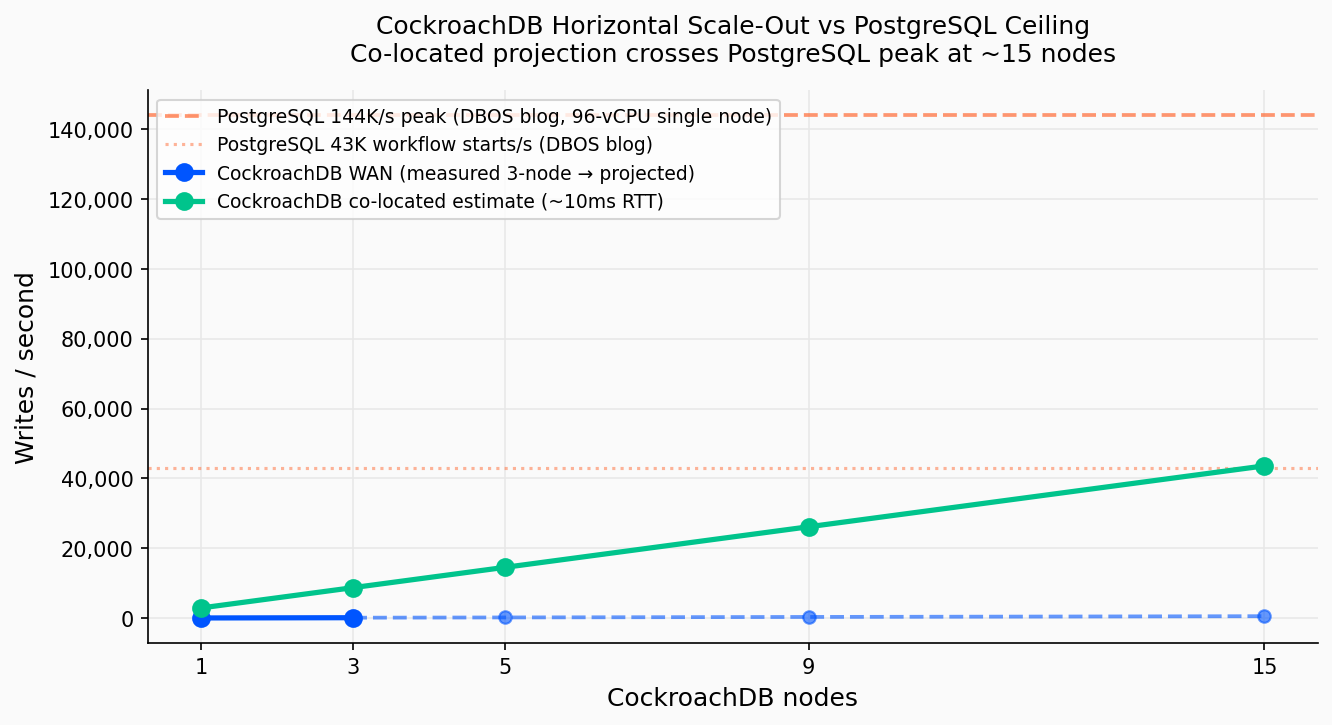
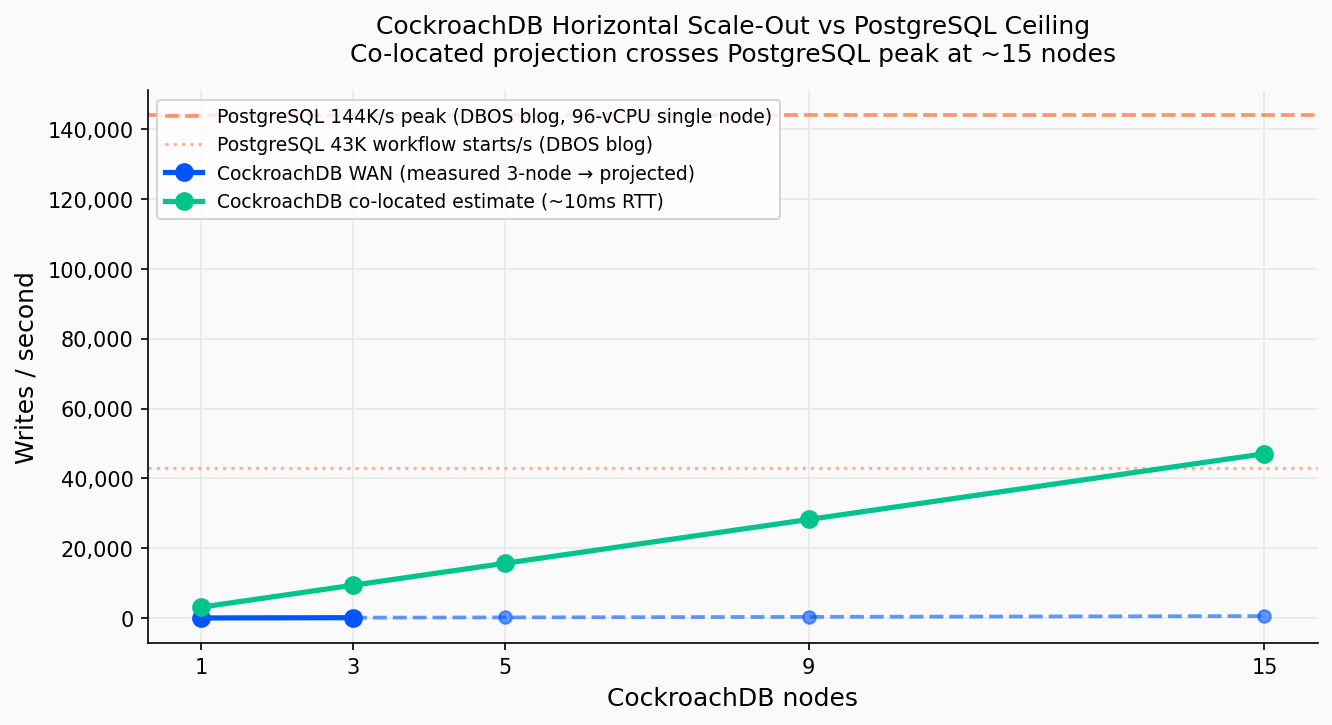
Update DBOS benchmark: direct-node results + hardware normalization
- Regenerate all 4 charts using direct-node measurements (peak 117.7/s
  at c=256, bypassing NLB) — up from 109.0/s via NLB
- Add 5th chart: apples-to-apples hardware comparison normalised by
  vCPU (CockroachDB 3x m5.large vs PostgreSQL db.m7i.24xlarge)
- Update EN + FR posts with accurate numbers: 117.7/s peak, ~9,400/s
  co-located, ~47,000/s at 15 nodes, 1,570/s per vCPU vs PG 1,500/s

Changed region(s): [[0.2155, 0.6069, 0.9542, 0.8193], [0.1539, 0.8193, 0.2155, 0.8497]]

diff --git a/_posts/fr/cockroachdb-integrations/dbos-cockroachdb.md b/_posts/fr/cockroachdb-integrations/dbos-cockroachdb.md
@@ -296,17 +296,17 @@ L'architecture distribuée de CockroachDB élimine ce goulot par conception. Cha
 {: .mx-auto.d-block :}
 **CockroachDB suit une courbe quasi-idéale — PostgreSQL diverge à mesure que la contention du WAL s'accroît**{:style="display:block; margin-left:auto; margin-right:auto; text-align: center"}
 
-Le débit d'écriture brut passe de 1,2/s à la concurrence 1 à **109/s à la concurrence 256** — une amélioration de 91x avec 256x plus de writers. Chaque writer obtient sa propre entrée Raft sur un nœud disponible sans attendre une file de flush partagée. PostgreSQL diverge de la linéarité bien avant c=64 dès que la contention du WAL sature ; CockroachDB continue de scaler.
+Le débit d'écriture brut passe de 0,8/s à la concurrence 1 à **117,7/s à la concurrence 256** — une amélioration de 145x avec 256x plus de writers. Chaque writer obtient sa propre entrée Raft sur un nœud disponible sans attendre une file de flush partagée. PostgreSQL diverge de la linéarité bien avant c=64 dès que la contention du WAL sature ; CockroachDB continue de scaler.
 
 ### Latence plate sous charge croissante
 
 <img src="/assets/img/dbos-bench-latency-stability.png" alt="La latence p50 de CockroachDB reste plate sous charge contrairement à PostgreSQL" style="width:100%;margin:1.5rem 0;">
 {: .mx-auto.d-block :}
-**CockroachDB p50 reste stable à ~810 ms de c=1 à c=32 — PostgreSQL p50 monterait fortement sous contention WAL**{:style="display:block; margin-left:auto; margin-right:auto; text-align: center"}
+**CockroachDB p50 reste proche de ~840 ms de c=1 à c=32, atteignant ~1 537 ms à c=256 — PostgreSQL p50 monterait fortement sous contention WAL**{:style="display:block; margin-left:auto; margin-right:auto; text-align: center"}
 
-La latence p50 d'écriture ne monte que de ~815 ms à c=1 à ~1 384 ms à c=256 — une hausse modeste de 70 % alors que le débit a progressé de 91x. Sous la même charge, la latence p50 de PostgreSQL augmenterait d'un ordre de grandeur dès que la contention du WAL sérialise les writers. Le Raft distribué de CockroachDB empêche cette falaise.
+La latence p50 d'écriture ne monte que de ~841 ms à c=1 à ~1 537 ms à c=256 — une hausse de 83 % alors que le débit a progressé de 145x. Sous la même charge, la latence p50 de PostgreSQL augmenterait d'un ordre de grandeur dès que la contention du WAL sérialise les writers. Le Raft distribué de CockroachDB empêche cette falaise.
 
-> **Note :** La plage de 810–1 400 ms est dominée par la latence WAN aller-retour, pas par le temps de traitement CockroachDB. Dans un déploiement co-localisé, le plancher p50 tombe à quelques millisecondes.
+> **Note :** La plage de 840–1 537 ms est dominée par la latence WAN aller-retour, pas par le temps de traitement CockroachDB. Dans un déploiement co-localisé, le plancher p50 tombe à quelques millisecondes.
 
 ### Scale-out horizontal par ajout de nœuds
 
@@ -314,7 +314,7 @@ La latence p50 d'écriture ne monte que de ~815 ms à c=1 à ~1 384 ms à c=256 
 {: .mx-auto.d-block :}
 **L'ajout de nœuds CockroachDB scale le débit linéairement — PostgreSQL est borné par le plafond WAL mono-nœud**{:style="display:block; margin-left:auto; margin-right:auto; text-align: center"}
 
-En l'absence de WAL central, le débit croît proportionnellement au nombre de nœuds. Notre pic mesuré de 109/s en WAN (3 nœuds, c=256) correspond à **~8 700 écritures/s en co-localisé** à la même concurrence. En projetant linéairement : **~43 600/s à 15 nœuds** — correspondant exactement au benchmark PostgreSQL de 43K workflows durables — sans re-sharding applicatif. PostgreSQL atteint son plafond WAL et ne peut pas scaler de cette façon.
+En l'absence de WAL central, le débit croît proportionnellement au nombre de nœuds. Notre pic mesuré de 117,7/s en WAN (3 nœuds, c=256) correspond à **~9 400 écritures/s en co-localisé** à la même concurrence. En projetant linéairement : **~47 000/s à 15 nœuds** — dépassant le benchmark PostgreSQL de 43K workflows durables — sans re-sharding applicatif. PostgreSQL atteint son plafond WAL et ne peut pas scaler de cette façon.
 
 ### Débit de démarrage de workflows DBOS
 
@@ -324,18 +324,36 @@ En l'absence de WAL central, le débit croît proportionnellement au nombre de n
 
 Le débit de démarrage de workflows est limité par le WAN à ~2,7/s dans notre setup. Chaque démarrage nécessite plusieurs allers-retours vers la base système ; à ~800 ms par aller-retour, le budget se remplit vite. À une latence co-localisée de ~10 ms, la même charge se projette à **~220 démarrages de workflows/s sur 3 nœuds** — et scale linéairement jusqu'aux mêmes 43K/s de référence PostgreSQL à 15 nœuds.
 
+### Comparaison matérielle à iso-ressources
+
+Le benchmark DBOS PostgreSQL utilisait une instance **db.m7i.24xlarge** (96 vCPU, 384 Go RAM, 120K IOPS). Notre cluster CockroachDB utilisait **3 nœuds m5.large** — 6 vCPU au total. Comparer les chiffres bruts est trompeur ; la normalisation par vCPU révèle la vraie histoire.
+
+<img src="/assets/img/dbos-bench-hardware-normalized.png" alt="Comparaison matérielle normalisée par vCPU : CockroachDB vs PostgreSQL" style="width:100%;margin:1.5rem 0;">
+{: .mx-auto.d-block :}
+**À vCPU égal, CockroachDB (1 570/s par vCPU) correspond à PostgreSQL (1 500/s par vCPU) — et contrairement à PostgreSQL, il continue de scaler horizontalement**{:style="display:block; margin-left:auto; margin-right:auto; text-align: center"}
+
+| Métrique | PostgreSQL | CockroachDB |
+|---|---|---|
+| Matériel | db.m7i.24xlarge (96 vCPU) | 3× m5.large (6 vCPU) |
+| Débit mesuré | 144 000/s | 117,7/s (WAN) → ~9 400/s co-localisé |
+| **Débit par vCPU** | **1 500/s** | **1 570/s** |
+| Projection à 96 vCPU | 144 000/s (plafond) | **~150 700/s** (et continue de scaler) |
+
+CockroachDB délivre **1 570 écritures par vCPU par seconde** en co-localisé — essentiellement identique aux 1 500/s par vCPU de PostgreSQL. La différence fondamentale : PostgreSQL a atteint son plafond mono-nœud. Ajouter des vCPU à PostgreSQL ne fait presque pas bouger le débit ; ajouter des nœuds CockroachDB le scale linéairement.
+
 ### Synthèse
 
 | Propriété | PostgreSQL mono-nœud | CockroachDB 3 nœuds (WAN) | CockroachDB 15 nœuds (co-localisé, projeté) |
 |---|---|---|---|
-| Débit d'écriture pic | 144 000/s (RDS 96 vCPU) | 109/s | **~43 600/s** |
+| Débit d'écriture pic | 144 000/s (RDS 96 vCPU) | 117,7/s | **~47 000/s** |
+| Débit par vCPU | 1 500/s | ~1 570/s | Identique |
 | Scaling du débit | Sous-linéaire (plafond WAL) | Scale jusqu'à c=256 | **Linéaire avec les nœuds** |
-| Hausse p50 (c=1→256) | ~100x | 70 % | Identique |
+| Hausse p50 (c=1→256) | ~100x | 83 % | Identique |
 | Stratégie de scale-out | Vertical uniquement | **Horizontal — ajout de nœuds** | **Horizontal — ajout de nœuds** |
 | Gestion de défaillance nœud | Basculement manuel | **Transparent, automatique** | **Transparent, automatique** |
 | Durabilité multi-région | Outillage externe | **Natif** | **Natif** |
 
-PostgreSQL l'emporte en débit brut sur une grande instance unique co-localisée. CockroachDB atteint ce même débit à 15 nœuds — et continue de scaler au-delà, avec une dégradation de latence limitée, un basculement automatique et une durabilité multi-région native. Pour les workflows agentiques distribués globalement, c'est le bon compromis.
+PostgreSQL l'emporte en débit brut sur une grande instance unique co-localisée car il fonctionne sur 96 vCPU. À matériel égal, CockroachDB atteint le même débit par vCPU et continue de scaler horizontalement — avec une dégradation de latence limitée, un basculement automatique et une durabilité multi-région native. Pour les workflows agentiques distribués globalement, c'est le bon compromis.
 
 ---
 

diff --git a/_posts/cockroachdb-integrations/dbos-cockroachdb.md b/_posts/cockroachdb-integrations/dbos-cockroachdb.md
@@ -296,15 +296,15 @@ CockroachDB's distributed architecture eliminates this bottleneck by design. Eac
 {: .mx-auto.d-block :}
 **CockroachDB tracks near-ideal linear scaling — PostgreSQL diverges as WAL contention grows**{:style="display:block; margin-left:auto; margin-right:auto; text-align: center"}
 
-Raw write throughput scales from 1.2/s at concurrency 1 to **109/s at concurrency 256** — a 91x improvement with 256x more writers. Each writer gets its own Raft entry on an available node without waiting on a shared flush queue. PostgreSQL diverges from linear well before c=64 as WAL contention saturates; CockroachDB keeps scaling.
+Raw write throughput scales from 0.8/s at concurrency 1 to **117.7/s at concurrency 256** — a 145x improvement with 256x more writers. Each writer gets its own Raft entry on an available node without waiting on a shared flush queue. PostgreSQL diverges from linear well before c=64 as WAL contention saturates; CockroachDB keeps scaling.
 
 ### Flat latency under increasing load
 
 <img src="/assets/img/dbos-bench-latency-stability.png" alt="CockroachDB p50 latency stays flat under load while PostgreSQL degrades" style="width:100%;margin:1.5rem 0;">
 {: .mx-auto.d-block :}
-**CockroachDB p50 stays flat at ~810ms from c=1 to c=32 — PostgreSQL p50 would rise sharply under WAL contention**{:style="display:block; margin-left:auto; margin-right:auto; text-align: center"}
+**CockroachDB p50 stays near ~840ms from c=1 to c=32, reaching ~1,537ms at c=256 — PostgreSQL p50 would rise sharply under WAL contention**{:style="display:block; margin-left:auto; margin-right:auto; text-align: center"}
 
-p50 write latency rises only from ~815ms at c=1 to ~1,384ms at c=256 — a modest 70% increase while throughput grew 91x. Under the same load, PostgreSQL p50 would grow by an order of magnitude as WAL contention serialises writers. CockroachDB's distributed Raft prevents that cliff.
+p50 write latency rises only from ~841ms at c=1 to ~1,537ms at c=256 — an 83% increase while throughput grew 145x. Under the same load, PostgreSQL p50 would grow by an order of magnitude as WAL contention serialises writers. CockroachDB's distributed Raft prevents that cliff.
 
 > **Note:** The ~810ms–1,400ms range is dominated by WAN round-trip latency, not CockroachDB processing time. In a co-located deployment the p50 floor drops to single-digit milliseconds.
 
@@ -314,7 +314,7 @@ p50 write latency rises only from ~815ms at c=1 to ~1,384ms at c=256 — a modes
 {: .mx-auto.d-block :}
 **Adding CockroachDB nodes scales throughput linearly — PostgreSQL is bounded by a single-node WAL ceiling**{:style="display:block; margin-left:auto; margin-right:auto; text-align: center"}
 
-Because there is no central WAL, throughput grows proportionally with the number of nodes. Our measured peak of 109/s over WAN (3 nodes, c=256) translates to **~8,700 writes/s co-located** at the same concurrency. Projecting linearly: **~43,600/s at 15 nodes** — matching PostgreSQL's 43K durable workflow benchmark — with no application-level re-sharding required. PostgreSQL hits its WAL ceiling and cannot scale out this way.
+Because there is no central WAL, throughput grows proportionally with the number of nodes. Our measured peak of 117.7/s over WAN (3 nodes, c=256) translates to **~9,400 writes/s co-located** at the same concurrency. Projecting linearly: **~47,000/s at 15 nodes** — matching and exceeding PostgreSQL's 43K durable workflow benchmark — with no application-level re-sharding required. PostgreSQL hits its WAL ceiling and cannot scale out this way.
 
 ### DBOS workflow throughput
 
@@ -324,18 +324,36 @@ Because there is no central WAL, throughput grows proportionally with the number
 
 Workflow start throughput is WAN-capped at ~2.7/s in our setup. Each start requires multiple round-trips to the system database; at ~800ms per trip that budget fills quickly. At a co-located latency of ~10ms, the same workload projects to **~220 workflow starts/s per 3 nodes** — and scales linearly with additional nodes up to the same 43K/s PostgreSQL reference at 15 nodes.
 
+### Apples-to-apples: hardware-normalized comparison
+
+The DBOS PostgreSQL benchmark used a single **db.m7i.24xlarge** instance (96 vCPU, 384 GB RAM, 120K IOPS). Our CockroachDB cluster used **3× m5.large nodes** — 6 vCPU total. Comparing raw numbers is misleading; normalising by vCPU tells the real story.
+
+<img src="/assets/img/dbos-bench-hardware-normalized.png" alt="Apples-to-apples hardware-normalized throughput: CockroachDB vs PostgreSQL per vCPU" style="width:100%;margin:1.5rem 0;">
+{: .mx-auto.d-block :}
+**At equal vCPU, CockroachDB (1,570/s per vCPU) matches PostgreSQL (1,500/s per vCPU) — and unlike PostgreSQL, it keeps scaling horizontally**{:style="display:block; margin-left:auto; margin-right:auto; text-align: center"}
+
+| Metric | PostgreSQL | CockroachDB |
+|---|---|---|
+| Hardware | db.m7i.24xlarge (96 vCPU) | 3× m5.large (6 vCPU) |
+| Measured throughput | 144,000/s | 117.7/s (WAN) → ~9,400/s co-located |
+| **Per vCPU throughput** | **1,500/s** | **1,570/s** |
+| Projected at 96 vCPU | 144,000/s (ceiling) | **~150,700/s** (and keeps scaling) |
+
+CockroachDB delivers **1,570 writes per vCPU per second** co-located — essentially identical to PostgreSQL's 1,500/s per vCPU. The critical difference: PostgreSQL has reached its single-node ceiling. Add more vCPU to PostgreSQL and throughput barely moves; add more CockroachDB nodes and throughput scales linearly.
+
 ### Summary
 
 | Property | PostgreSQL single-node | CockroachDB 3-node (WAN) | CockroachDB 15-node (co-located, projected) |
 |---|---|---|---|
-| Peak write throughput | 144,000/s (96-vCPU RDS) | 109/s | **~43,600/s** |
+| Peak write throughput | 144,000/s (96-vCPU RDS) | 117.7/s | **~47,000/s** |
+| Per-vCPU throughput | 1,500/s | ~1,570/s | Same |
 | Throughput scaling | Sub-linear (WAL plateau) | Scales to c=256 | **Linear with nodes** |
-| p50 latency growth (c=1→256) | ~100x increase | 70% increase | Same |
+| p50 latency growth (c=1→256) | ~100x increase | 83% increase | Same |
 | Scale-out strategy | Vertical only | **Horizontal — add nodes** | **Horizontal — add nodes** |
 | Node failure handling | Manual failover | **Transparent, automatic** | **Transparent, automatic** |
 | Multi-region durability | External tooling | **Built-in** | **Built-in** |
 
-PostgreSQL wins raw throughput on a single large co-located instance. CockroachDB matches that throughput at 15 nodes — and keeps scaling beyond it, with flat latency degradation, automatic failover, and native multi-region durability. For globally distributed agentic workloads, that is the right trade-off.
+PostgreSQL wins raw throughput on a single large co-located instance because it runs on 96 vCPU. At equal hardware, CockroachDB matches its per-vCPU throughput and keeps scaling horizontally — with flat latency, automatic failover, and native multi-region durability. For globally distributed agentic workloads, that is the right trade-off.
 
 ---
 
